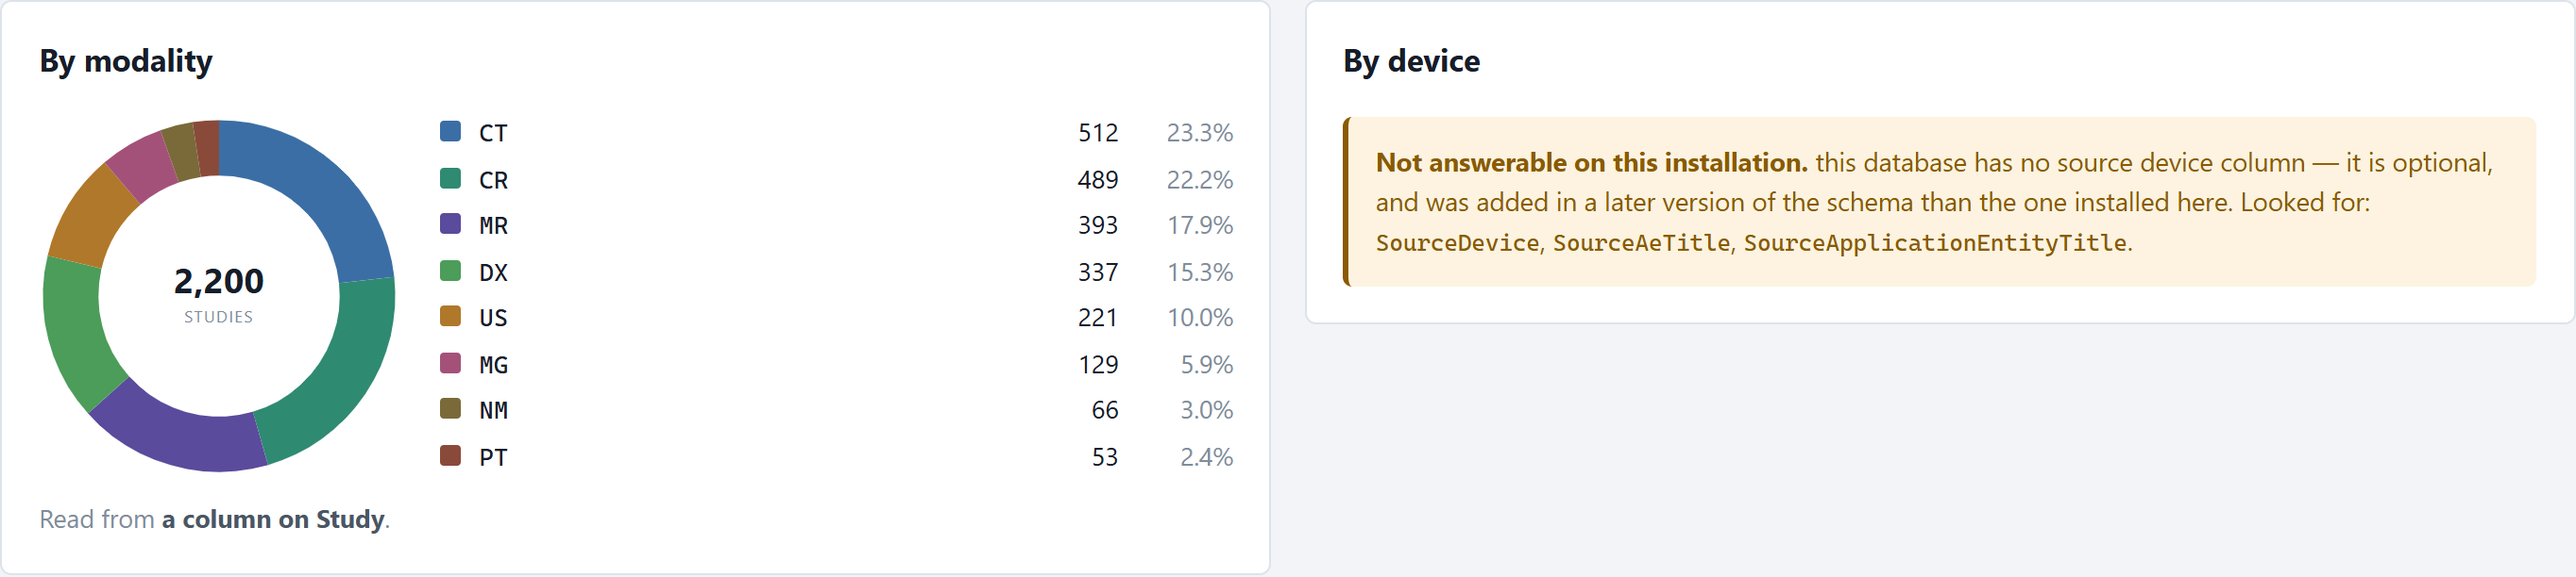
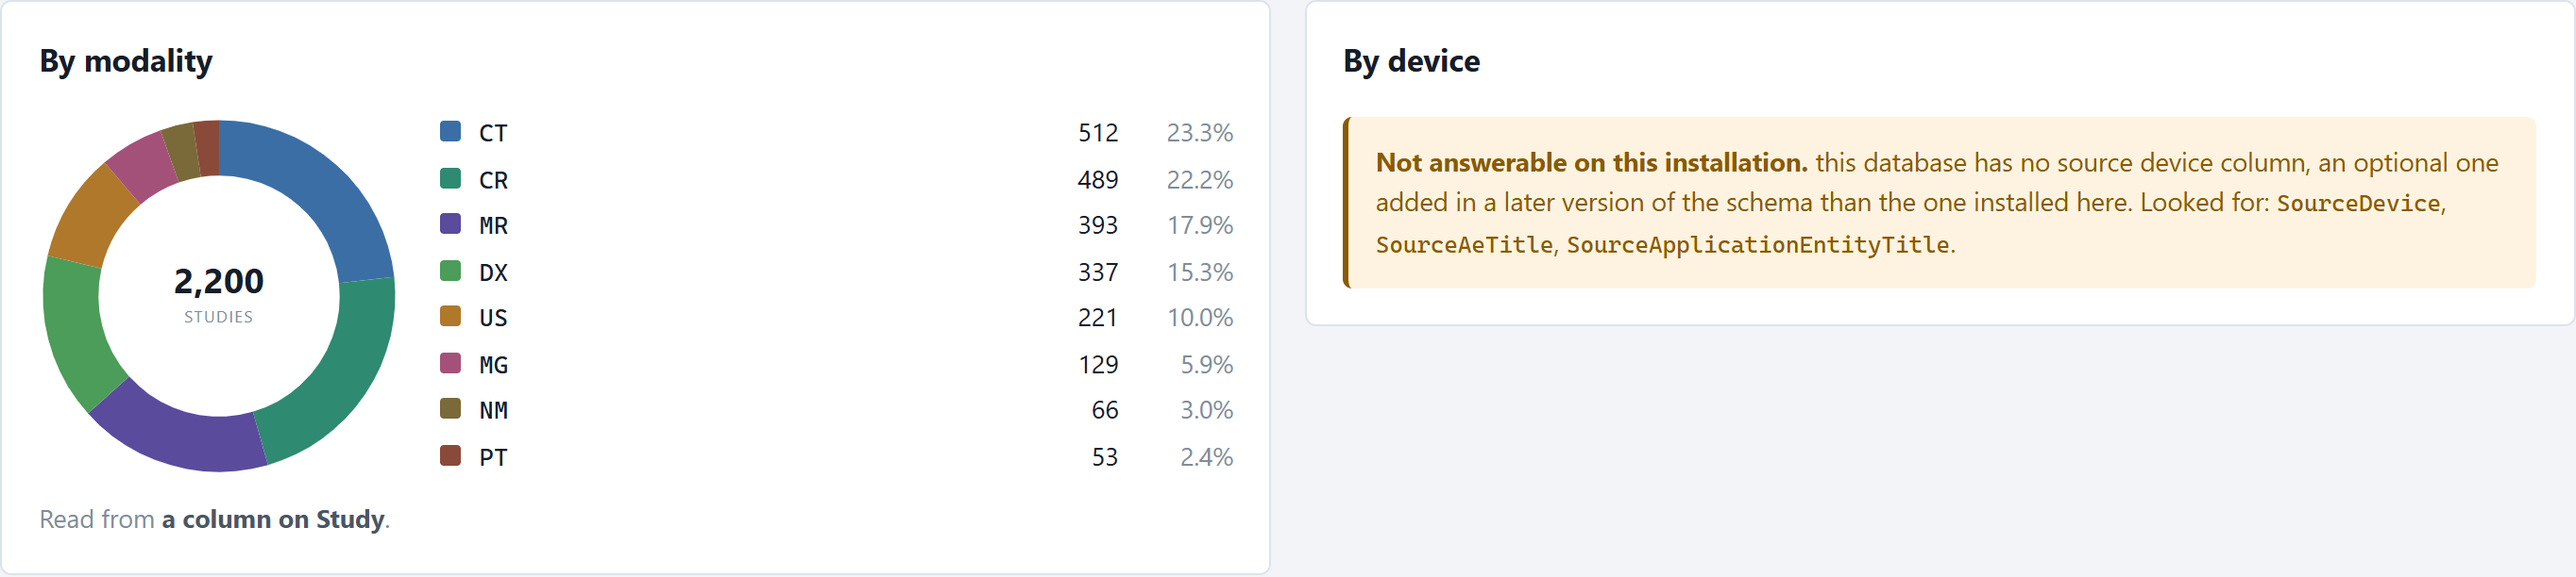
The footer said what this is, never why the original is missing
The line under every demonstration named the thing and named what was invented
in it, and stopped there. It never said why there is a reconstruction at all,
which is the half that matters: the original cannot be published. Somebody who
opens one of these from a direct link never sees the README, so that sentence
existed nowhere they would look.

The same words now open every one of the fourteen interfaces in this portfolio,
character for character, whether the footer lives in an index.html, an Angular
template, a Razor page, a PHP view or a React component.

The name in the signature is a link to the profile, opening in its own tab.
It carries rel=noopener, and that is not decoration: without it the page that
opens gets a handle on this one and can navigate it somewhere else. It does not
carry nofollow, because unlike the link out to a client's live site, this one is
meant to be followed.

The dash was a tic here too. Twenty-three of them on one page, eighty-five
across the eight HTML ones, and this is where somebody actually looks rather
than on GitHub. Most are gone by rewriting the sentence; the ones that stayed
are all the same case, a parenthesis that already holds commas of its own,
where a comma cannot do the work. The proof it was rewritten and not
substituted is the length: the visible text got shorter.

diff --git a/public/console.js b/public/console.js
@@ -119,7 +119,7 @@ async function showDashboard() {
     $('undatable').hidden = false;
     $('undatable').innerHTML =
       `<strong>${said.summary.undatable} of the ${said.summary.inTheArchive.toLocaleString('en-GB')} rows here cannot be dated</strong>` +
-      ` — <code>StudyDate</code> holds whatever the sending modality put in it, and these are not eight digits.` +
+      `: <code>StudyDate</code> holds whatever the sending modality put in it, and these are not eight digits.` +
       ` They are in the archive and in none of the charts below, which is why the count says so rather than` +
       ` letting a total and a chart disagree by four.`;
   } else {
@@ -158,7 +158,7 @@ async function showDashboard() {
     ) +
     `<p class="hint small">` +
     (room.forecast.possible
-      ? `The dashed columns are <strong>a straight line through the ${room.forecast.from} complete years</strong>, and nothing more — about ` +
+      ? `The dashed columns are <strong>a straight line through the ${room.forecast.from} complete years</strong> and nothing more: about ` +
         `${room.forecast.perYearGB.toFixed(0)} GB a year. It knows nothing about the scanner arriving in March. ` +
         (room.runsOut.known
           ? `At that rate the ${room.runsOut.capacityGB} GB volume, ${room.runsOut.percentUsed.toFixed(0)}% used, lasts about ${room.runsOut.yearsLeft.toFixed(0)} more years.`
@@ -184,7 +184,7 @@ async function showDashboard() {
     $('heatmap').innerHTML =
       grid(said.heatmap.grid, said.heatmap.days) +
       `<p class="hint small">Busiest: <strong>${safe(said.heatmap.busiest.day)} at ${String(said.heatmap.busiest.hour).padStart(2, '0')}:00</strong>` +
-      ` (${said.heatmap.busiest.studies} studies). Weekday and hour are both worked out in the database from two string columns —` +
+      ` (${said.heatmap.busiest.studies} studies). Weekday and hour are both worked out in the database from two string columns,` +
       ` and Monday is zero in three different ways across the three dialects.</p>`;
   }
 }

diff --git a/public/console.css b/public/console.css
@@ -386,6 +386,32 @@ footer p { margin: 0; color: var(--ink-faint); font-size: 0.82rem; max-width: 82
 footer code { font-family: var(--mono); font-size: 0.86em; }
 footer .by { margin-top: 0.5rem; }
 
+/* The signature is the only link on the page, so nothing else has taught the
+   reader what a link looks like here — it has to say so by itself, and without
+   inventing a colour. It takes no new token: it steps up from the faint grey
+   the rest of the footer is set in to the grey this console already uses for
+   secondary text, which is a lift you can see (6.78:1 on the paper in light,
+   9.29:1 in dark) but not a second accent competing with the one thing on this
+   page allowed to be blue. At 0.82rem that lift alone is not a signal, so the
+   underline is there before the pointer is, thin and set low enough to clear
+   the descenders. Hover goes to the page's full ink; the focus ring is the
+   3px accent every control here already wears. */
+footer .by a {
+  color: var(--ink-soft);
+  text-decoration: underline;
+  text-decoration-thickness: 1px;
+  text-underline-offset: 0.18em;
+  border-radius: 3px;
+}
+
+footer .by a:hover { color: var(--ink); }
+
+footer .by a:focus-visible { outline: 3px solid var(--accent); outline-offset: 2px; }
+
+@media (prefers-reduced-motion: no-preference) {
+  footer .by a { transition: color 0.15s ease; }
+}
+
 @media (max-width: 68rem) {
   .two { grid-template-columns: minmax(0, 1fr); }
 }

diff --git a/public/index.html b/public/index.html
@@ -169,13 +169,14 @@
 
     <footer>
       <p>
-        A demonstration — an independent reconstruction of a production system I
-        designed and developed. Every study, device, site and serial is invented, and
-        nothing is written anywhere: there is no <code>INSERT</code>,
-        <code>UPDATE</code> or <code>DELETE</code> in <code>src/</code>, and the six
-        databases are built in memory from <code>src/fixtures/facts.js</code>.
+        A demonstration. It reconstructs a production system I designed and
+        developed; the original cannot be published, so this one was written
+        from scratch. Every study, device, site and serial is invented, and
+        nothing is written anywhere: no <code>INSERT</code>, <code>UPDATE</code>
+        or <code>DELETE</code> in <code>src/</code>, and the six databases are
+        built in memory from <code>src/fixtures/facts.js</code>.
       </p>
-      <p class="by">Developed by <strong>Riccardo Sapuppo</strong></p>
+      <p class="by">Developed by <strong><a href="https://github.com/riccardosapuppo" target="_blank" rel="noopener noreferrer">Riccardo Sapuppo</a></strong></p>
     </footer>
 
     <script src="./console.js" type="module"></script>

diff --git a/src/fixtures/installations.ts b/src/fixtures/installations.ts
@@ -174,7 +174,7 @@ function seriesTable(db: Db, studies: Study[]): void {
 export const INSTALLATIONS = [
   {
     name: 'as-documented',
-    differs: 'nothing — the schema the vendor documentation describes',
+    differs: 'nothing: the schema the vendor documentation describes',
     why: 'The control. If an answer is wrong here it is the query that is wrong, not the schema.',
     build(db: Db) {
       studyTable(db, DOCUMENTED);
@@ -207,7 +207,7 @@ export const INSTALLATIONS = [
 
   {
     name: 'modality-on-series',
-    differs: 'there is no modality column on Study at all — it is on Series, through a foreign key',
+    differs: 'the modality is not on Study at all, but on Series, through a foreign key',
     why:
       'The documentation puts the modality on the study. The data model puts it on the series, which ' +
       'is where it belongs: a study can contain series of more than one modality. This is not a ' +

diff --git a/src/ask/storage.ts b/src/ask/storage.ts
@@ -64,7 +64,7 @@ export function forecast(years: Array<{ year: number; gb: number }>, { ahead = 3
       possible: false,
       why:
         `a line through ${complete.length} complete ${complete.length === 1 ? 'year' : 'years'} is not a forecast` +
-        (years.length > complete.length ? ' — the current year is left out, because a part of a year fitted as a whole one points downwards' : ''),
+        (years.length > complete.length ? '; the current year is left out, because a part of a year fitted as a whole one points downwards' : ''),
       years: [],
     };
   }

diff --git a/src/db/schema.ts b/src/db/schema.ts
@@ -191,7 +191,7 @@ function describe(schema: Schema): string[] {
     notes.push(`the modality is on ${schema.table}.${schema.modality}`);
   } else if (schema.modalityFrom === 'series') {
     notes.push(
-      `${schema.table} has no modality column — it is on ${schema.seriesTable}.${schema.seriesModality}, ` +
+      `${schema.table} has no modality column: it is on ${schema.seriesTable}.${schema.seriesModality}, ` +
         `reached by a subquery rather than a join so studies are not counted once per series`
     );
   } else {

diff --git a/src/ask/devices.ts b/src/ask/devices.ts
@@ -22,7 +22,7 @@ export function devices(run: Run, d: Dialect, schema: Schema, filters: Filters =
     return {
       available: false,
       why:
-        'this database has no source device column — it is optional, and was added in a later ' +
+        'this database has no source device column, an optional one added in a later ' +
         'version of the schema than the one installed here',
       looked: ['SourceDevice', 'SourceAeTitle', 'SourceApplicationEntityTitle'],
       rows: [],
